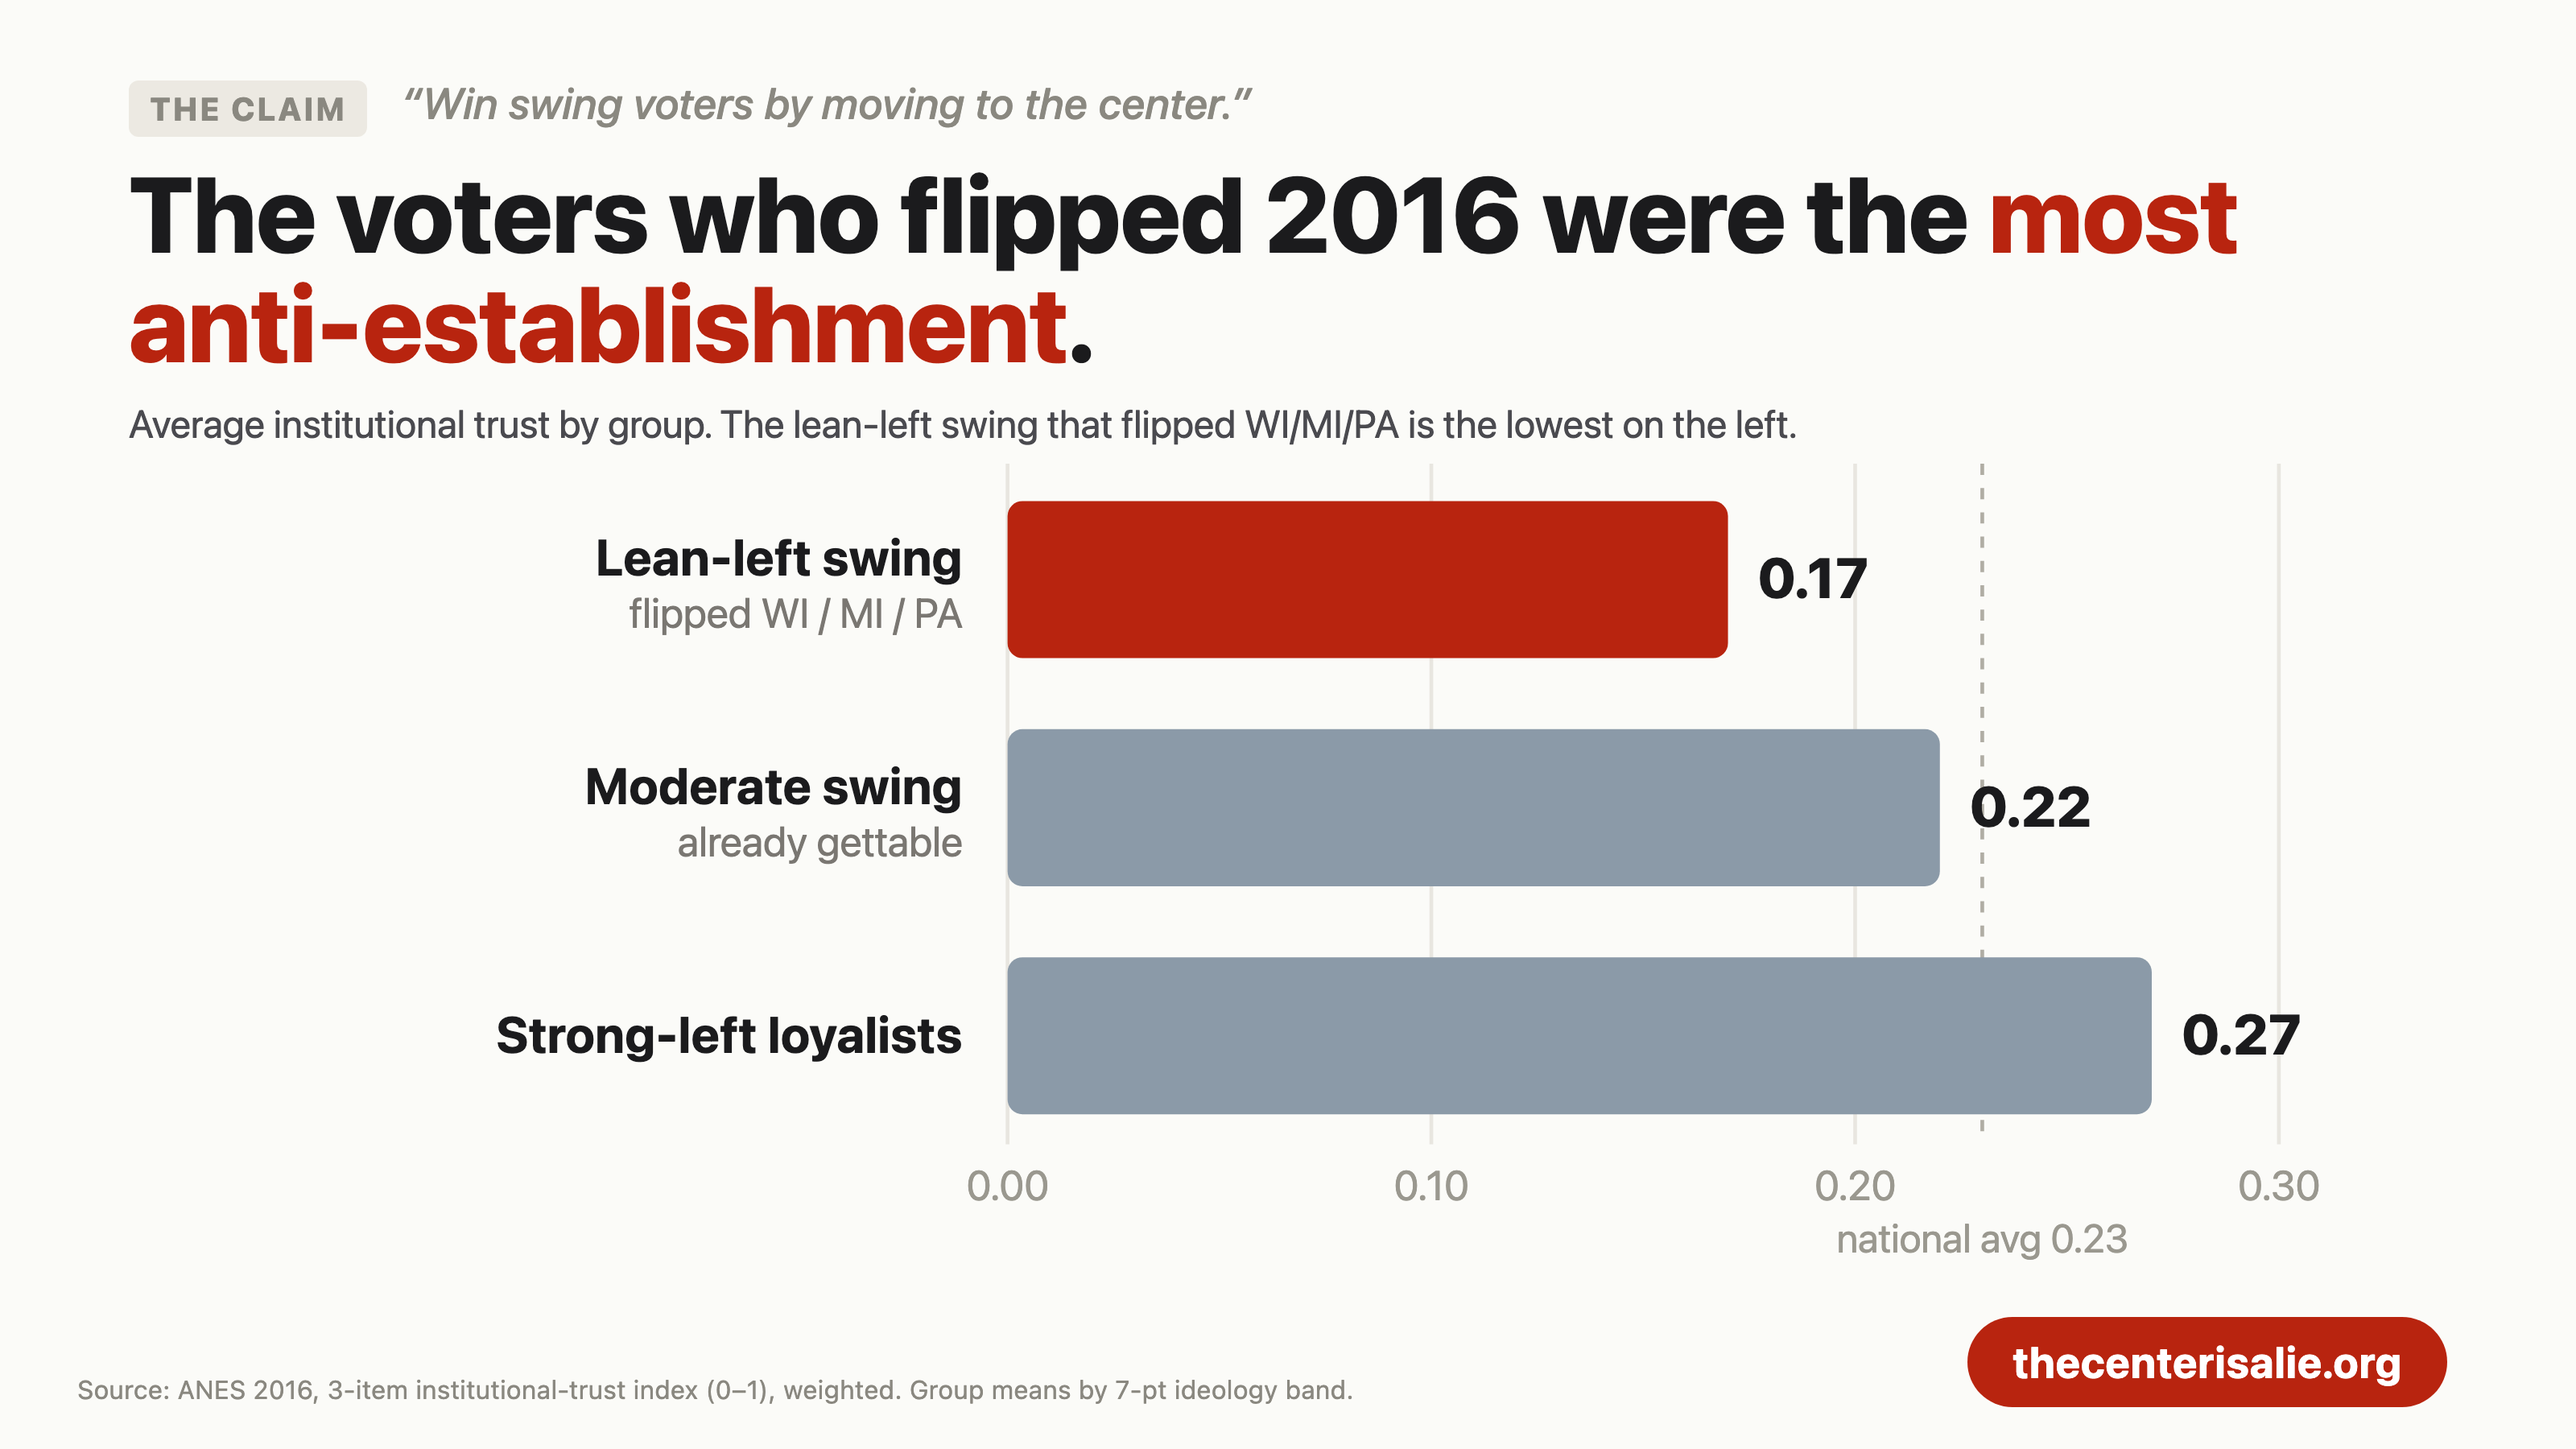
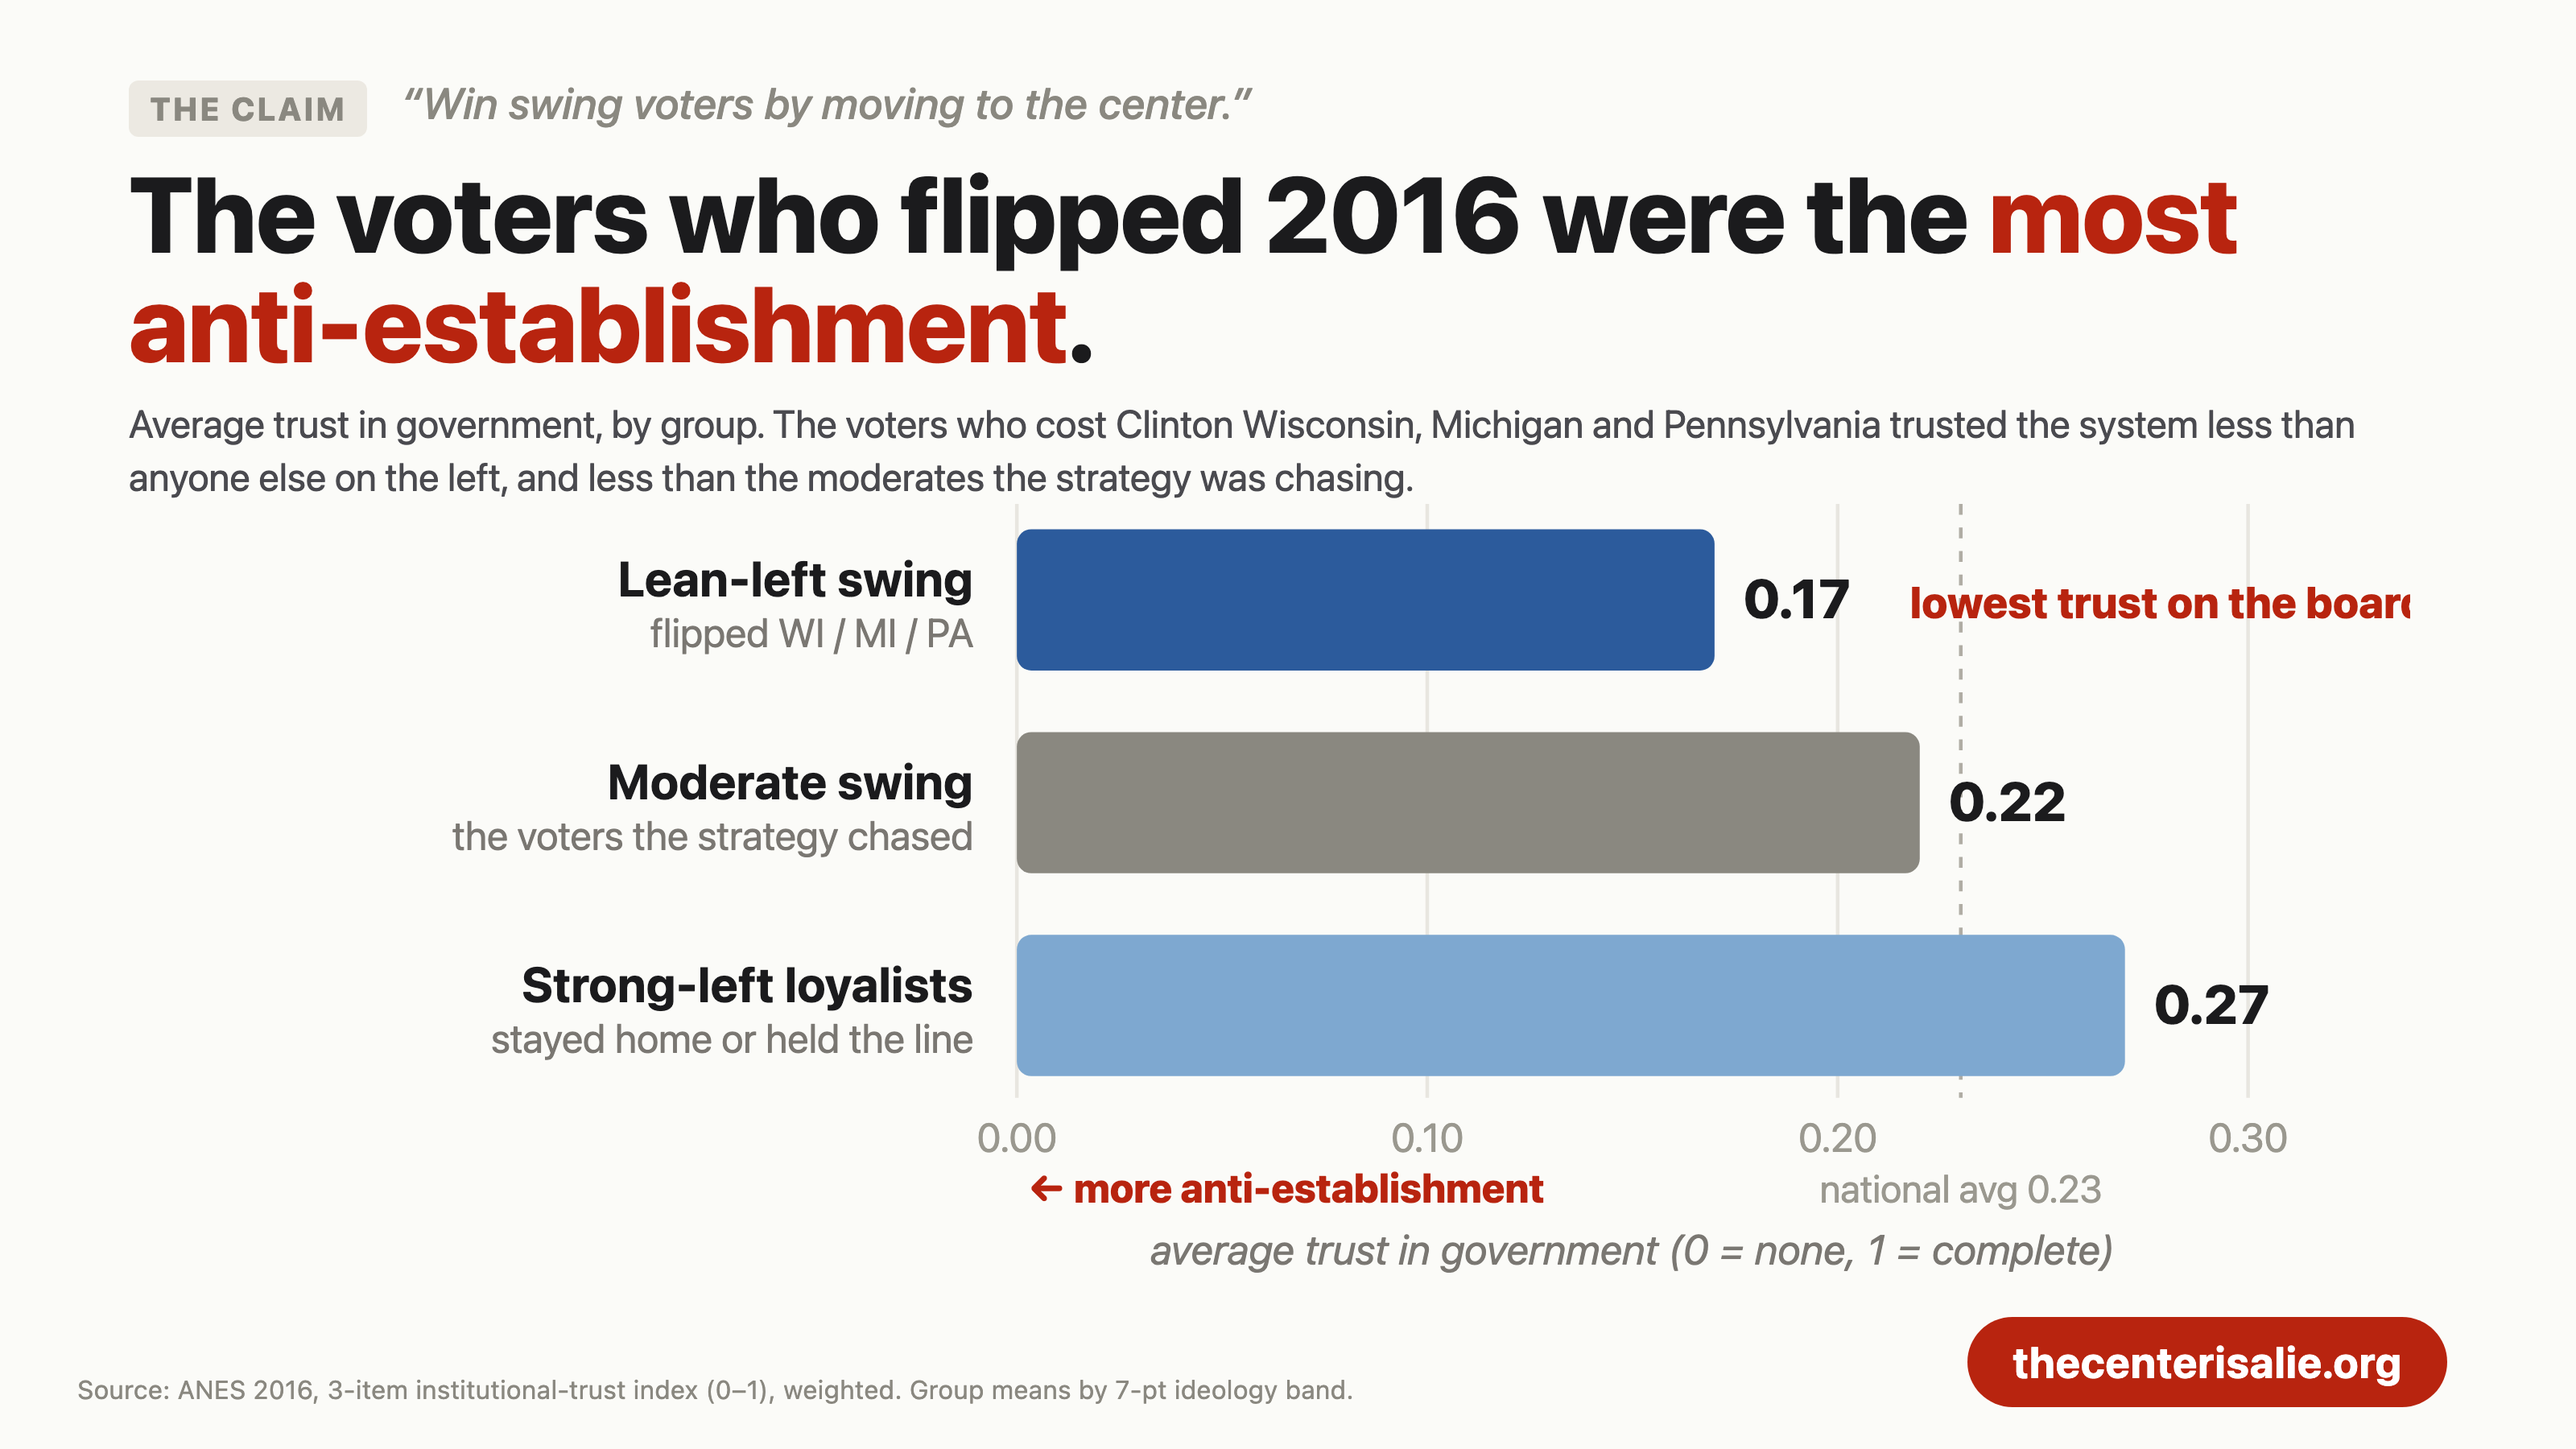
fix(og): badtrade colour, axis label, and direction cue
- lean-left swing was red; it is a left group, so it is now blue. Moderate
  swing grey, strong-left loyalists lighter blue.
- the axis carried bare decimals with nothing saying what they measured; it now
  has a title ("average trust in government, 0 = none, 1 = complete").
- added a "<- more anti-establishment" cue and a callout on the flipper bar,
  because the measure runs against the visual grammar: on a trust axis the
  finding is the SHORTEST bar, and bigger reads as better.

Changed region(s): [[0.1562, 0.4978, 0.9062, 0.8711], [0.0625, 0.28, 0.9375, 0.4667], [0.8438, 0.7778, 0.9062, 0.84]]

diff --git a/web/og-cards/chart-badtrade.html b/web/og-cards/chart-badtrade.html
@@ -4,7 +4,7 @@
   <div class="chartcard">
     <div class="cc-claim"><span class="tag">The claim</span> &ldquo;Win swing voters by moving to the center.&rdquo;</div>
     <div class="cc-title">The voters who flipped 2016 were the <span class="hl">most anti-establishment</span>.</div>
-    <div class="cc-sub">Average institutional trust by group. The lean-left swing that flipped WI/MI/PA is the lowest on the left.</div>
+    <div class="cc-sub">Average trust in government, by group. The voters who cost Clinton Wisconsin, Michigan and Pennsylvania trusted the system less than anyone else on the left, and less than the moderates the strategy was chasing.</div>
 
     <div class="cc-chart"><svg id="bt" viewBox="0 0 1240 449" role="img"
       aria-label="Average institutional trust: lean-left swing 0.17, moderate swing 0.22, strong-left loyalists 0.27"></svg></div>
@@ -20,12 +20,12 @@
     const svg = document.getElementById('bt');
     const el = (t, a) => { const n = document.createElementNS(NS, t); for (const k in a) n.setAttribute(k, a[k]); return n; };
     const rows = [
-      { name: 'Lean-left swing', sub: 'flipped WI / MI / PA', v: 0.17, hot: true },
-      { name: 'Moderate swing', sub: 'already gettable', v: 0.22, hot: false },
-      { name: 'Strong-left loyalists', sub: '', v: 0.27, hot: false },
+      { name: 'Lean-left swing', sub: 'flipped WI / MI / PA', v: 0.17, c: '#2c5b9c', hot: true },
+      { name: 'Moderate swing', sub: 'the voters the strategy chased', v: 0.22, c: '#8a8880' },
+      { name: 'Strong-left loyalists', sub: 'stayed home or held the line', v: 0.27, c: '#7ea8d0' },
     ];
     const X0 = 470, X1 = 1150, VMAX = 0.30, sc = (X1 - X0) / VMAX;
-    const barH = 84, step = 122, y0 = 20, axisY = y0 + rows.length * step - 22;
+    const barH = 78, step = 112, y0 = 14, axisY = y0 + rows.length * step - 22;
     // gridlines + ticks
     for (let v = 0; v <= 0.3001; v += 0.10) {
       const gx = X0 + v * sc;
@@ -36,14 +36,20 @@
     const nx = X0 + 0.23 * sc;
     svg.appendChild(el('line', { x1: nx, y1: 0, x2: nx, y2: axisY, stroke: '#b0ada4', 'stroke-width': 2, 'stroke-dasharray': '6 7' }));
     const nl = el('text', { x: nx, y: axisY + 58, 'text-anchor': 'middle', fill: '#9a988f', 'font-size': 21 }); nl.textContent = 'national avg 0.23'; svg.appendChild(nl);
+    const at = el('text', { x: (X0 + X1) / 2, y: axisY + 92, 'text-anchor': 'middle', fill: '#7a7772', 'font-size': 23, 'font-style': 'italic' });
+    at.textContent = 'average trust in government (0 = none, 1 = complete)'; svg.appendChild(at);
+    const ar = el('text', { x: X0 + 6, y: axisY + 58, 'text-anchor': 'start', fill: '#b8240f', 'font-size': 22, 'font-weight': 800 });
+    ar.textContent = '\u2190 more anti-establishment'; svg.appendChild(ar);
     // bars
     rows.forEach((r, i) => {
       const yTop = y0 + i * step, mid = yTop + barH / 2;
       const nm = el('text', { x: X0 - 24, y: r.sub ? mid - 2 : mid + 9, 'text-anchor': 'end', fill: '#1b1b1d', 'font-size': 27, 'font-weight': 700 }); nm.textContent = r.name; svg.appendChild(nm);
       if (r.sub) { const s = el('text', { x: X0 - 24, y: mid + 26, 'text-anchor': 'end', fill: '#7a7772', 'font-size': 22 }); s.textContent = r.sub; svg.appendChild(s); }
       const w = r.v * sc;
-      svg.appendChild(el('rect', { x: X0, y: yTop, width: w, height: barH, rx: 8, fill: r.hot ? '#b8240f' : '#8b9aa8' }));
+      svg.appendChild(el('rect', { x: X0, y: yTop, width: w, height: barH, rx: 8, fill: r.c }));
       const val = el('text', { x: X0 + w + 16, y: mid + 10, fill: '#1b1b1d', 'font-size': 30, 'font-weight': 800 }); val.textContent = r.v.toFixed(2); svg.appendChild(val);
+      if (r.hot) { const cl = el('text', { x: X0 + w + 108, y: mid + 10, fill: '#b8240f', 'font-size': 24, 'font-weight': 800 });
+        cl.textContent = 'lowest trust on the board'; svg.appendChild(cl); }
     });
   </script>
 </body></html>
